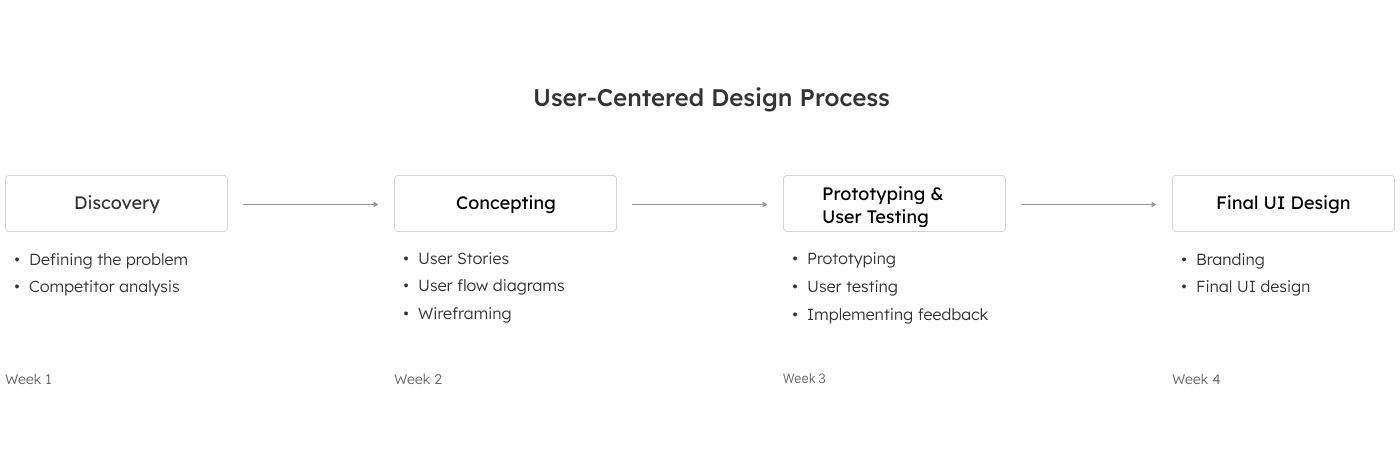
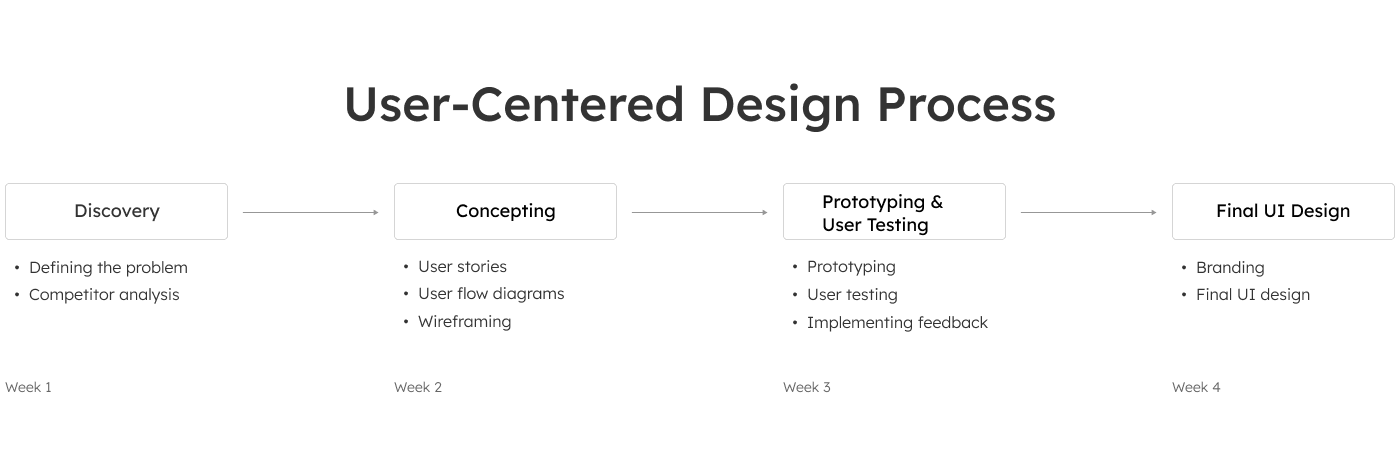
some layout changes
some layout changes

diff --git a/Pocket_Advisor.html b/Pocket_Advisor.html
@@ -40,7 +40,7 @@
       </div>
     </div>
   </header>
-  
+
   <main>
     <div id="hero">
       <div class="container">
@@ -288,9 +288,11 @@
   </div>
   </br>
   <div class="container">
-    <h3>Mid-Fidelity Wireframes</h3>
+    <h1>Prototyping and User Testing</h1>
+    <h2>Creating a Prototype and Testing it with the Users</h2>
     <p>
-      Based on low-fidelity wireframes, I built the mid-fidelity wireframes.
+      After designing the mid-fidelity wireframes, I created a prototype in inVision. I conducted a scenario-based
+      user testing with more than ten users. I tested the main functionalities of the app.
     </p>
   </div>
   <div class="container">
@@ -301,14 +303,6 @@
       </picture>
     </div>
   </div>
-
-  <div class="container">
-    <h1>Prototyping and User Testing</h1>
-    <h2>Creating a Prototype and Testing it with the Users</h2>
-    <p>
-      After designing the mid-fidelity wireframes, I created a prototype in inVision. I conducted a scenario-based
-      user testing with more than ten users. I tested the main functionalities of the app.
-    </p>
     </br>
     <h3>User Testing Analysis</h3>
     <p>
@@ -359,36 +353,6 @@
   </div>
   </br>
   <div class="container">
-    <h3>Implementing the Feedback</h3>
-    <p>
-      I designed a separate screen for Expenses Overview. I changed the way of presenting the month.
-    </p>
-    </br>
-  </div>
-  <div class="container">
-    <div class="row">
-      <picture>
-        <source srcset="img/Pocket_Advisor/Artboard_10-1.jpg" />
-        <img src="img/Pocket_Advisor/Artboard_10-2.jpg" alt="Image of Work Sample" />
-      </picture>
-    </div>
-  </div>
-  <div class="container">
-    <p>
-      I added details about the saved money and highlighted the saving priorities.
-    </p>
-  </div>
-  </br>
-  <div class="container">
-    <div class="row">
-      <picture>
-        <source srcset="img/Pocket_Advisor/Artboard_11-1.jpg" />
-        <img src="img/Pocket_Advisor/Artboard_11-2.jpg" alt="Image of Work Sample" />
-      </picture>
-    </div>
-  </div>
-  <div class="container">
-    <h1>Final UI Design</h1>
     <h2>Branding</h2>
     <h3>Pocket Advisor's Mission</h3>
     <p>
@@ -425,7 +389,23 @@
       Pocket Advisor doesn't function alone. The feedback of it's users is essential.
     </p>
     </br>
-    <h4>Typeface Choice</h4>
+  </div>
+    <div class="container">
+      <h3>Logo</h3>
+      <p>
+        The logo expresses the values of the product. The hand with the plant symbolizes the control we can get over our finances if we learn how to handle them.
+      </p>
+    </div>
+    <div class="container">
+      <div class="row">
+        <picture>
+          <source srcset="img/Pocket_Advisor/Artboard_10-1.jpg" />
+          <img src="img/Pocket_Advisor/Artboard_10-2.jpg" alt="Image of Work Sample" />
+        </picture>
+      </div>
+    </div>
+    <div class="container">
+    <h3>Typeface Choice</h3>
     <p>
       Soleil typeface communicates freshness, dynamism and contemporary. It's a typeface based on the modernist ideas of
       simplicity, clarity and reduction to the essential forms. It gives the product a friendly and approachable feeling.
@@ -438,8 +418,8 @@
   <div class="container">
     <div class="row">
       <picture>
-        <source srcset="img/Pocket_Advisor/Artboard_12-1.png" />
-        <img src="img/Pocket_Advisor/Artboard_12-2.png" alt="Image of Work Sample" />
+        <source srcset="img/Pocket_Advisor/Artboard_11-1.png" />
+        <img src="img/Pocket_Advisor/Artboard_11-2.png" alt="Image of Work Sample" />
       </picture>
     </div>
   </div>
@@ -480,9 +460,10 @@
     </div>
 
     <div class="container">
-      <h3>Final Screens</h3>
-      <h4>Securitized Sign-in and Sign-up</h4>
+        <h1>Final UI Design</h1>
+      <h4>Onboarding & Securitized Sign-in and Sign-up</h4>
       <p>
+        On the Onboarding screen, the user can log-in to his/her account or create an account if he/she doesn't have one.
         To sign-in or sign-up, the user is asked to identify himself with the face ID or digital fingerprint. It gives the user trust that his/her bank details are safe.
       </p>
     </div>
@@ -495,9 +476,9 @@
       </div>
     </div>
     <div class="container">
-      <h4>Home/Overview Screen</h4>
+      <h4>Know All the Details About Your Expenses & Incomes </h4>
       <p>
-        On the Home/Overview screen, the user can see the total and remaining amount of money from the beginning until the end of the month.
+        With the Pocket Advisor you can learn everything you need to know about your expenses and incomes with just one click.
       </p>
     </div>
     <div class="container">
@@ -509,9 +490,9 @@
       </div>
     </div>
     <div class="container">
-      <h4>Incomes Details Screen</h4>
+      <h4>Dashboard & Setting Saving Goals</h4>
       <p>
-        The Incomes screen offers details about the monthly income that entered the account/s.
+        See an overview of your monthly incomes, expenses and savings. Set new saving goals.
       </p>
     </div>
     <div class="container">
@@ -522,41 +503,10 @@
         </picture>
       </div>
     </div>
-
-    <div class="container">
-      <h4>Expenses Details Screen</h4>
-      <p>
-        The Expenses screen offers details about how much money was spent and on what.
-      </p>
-    </div>
-    <div class="container">
-      <div class="row">
-        <picture>
-          <source srcset="img/Pocket_Advisor/Artboard_18-1.jpg" />
-          <img src="img/Pocket_Advisor/Artboard_18-2.jpg" alt="Image of Work Sample" />
-        </picture>
-      </div>
-    </div>
-
-    <div class="container">
-      <h4>Goal Setting Screen</h4>
-      <p>
-        On the Goal Setting screen, the user can see the total amount of saving and the remaining to save to reach his/her goal. He/she can always set new saving goals.
-      </p>
-    </div>
-    <div class="container">
-      <div class="row">
-        <picture>
-          <source srcset="img/Pocket_Advisor/Artboard_19-1.jpg" />
-          <img src="img/Pocket_Advisor/Artboard_19-2.jpg" alt="Image of Work Sample" />
-        </picture>
-      </div>
-    </div>
-
     <div class="container">
       <picture>
-        <source srcset="img/Pocket_Advisor/Artboard_20-1.jpg" />
-        <img src="img/Pocket_Advisor/Artboard_20-2.jpg" alt="Artboard 20" />
+        <source srcset="img/Pocket_Advisor/Artboard_18-1.jpg" />
+        <img src="img/Pocket_Advisor/Artboard_18-2.jpg" alt="Artboard 20" />
       </picture>
     </div>
     </br>
